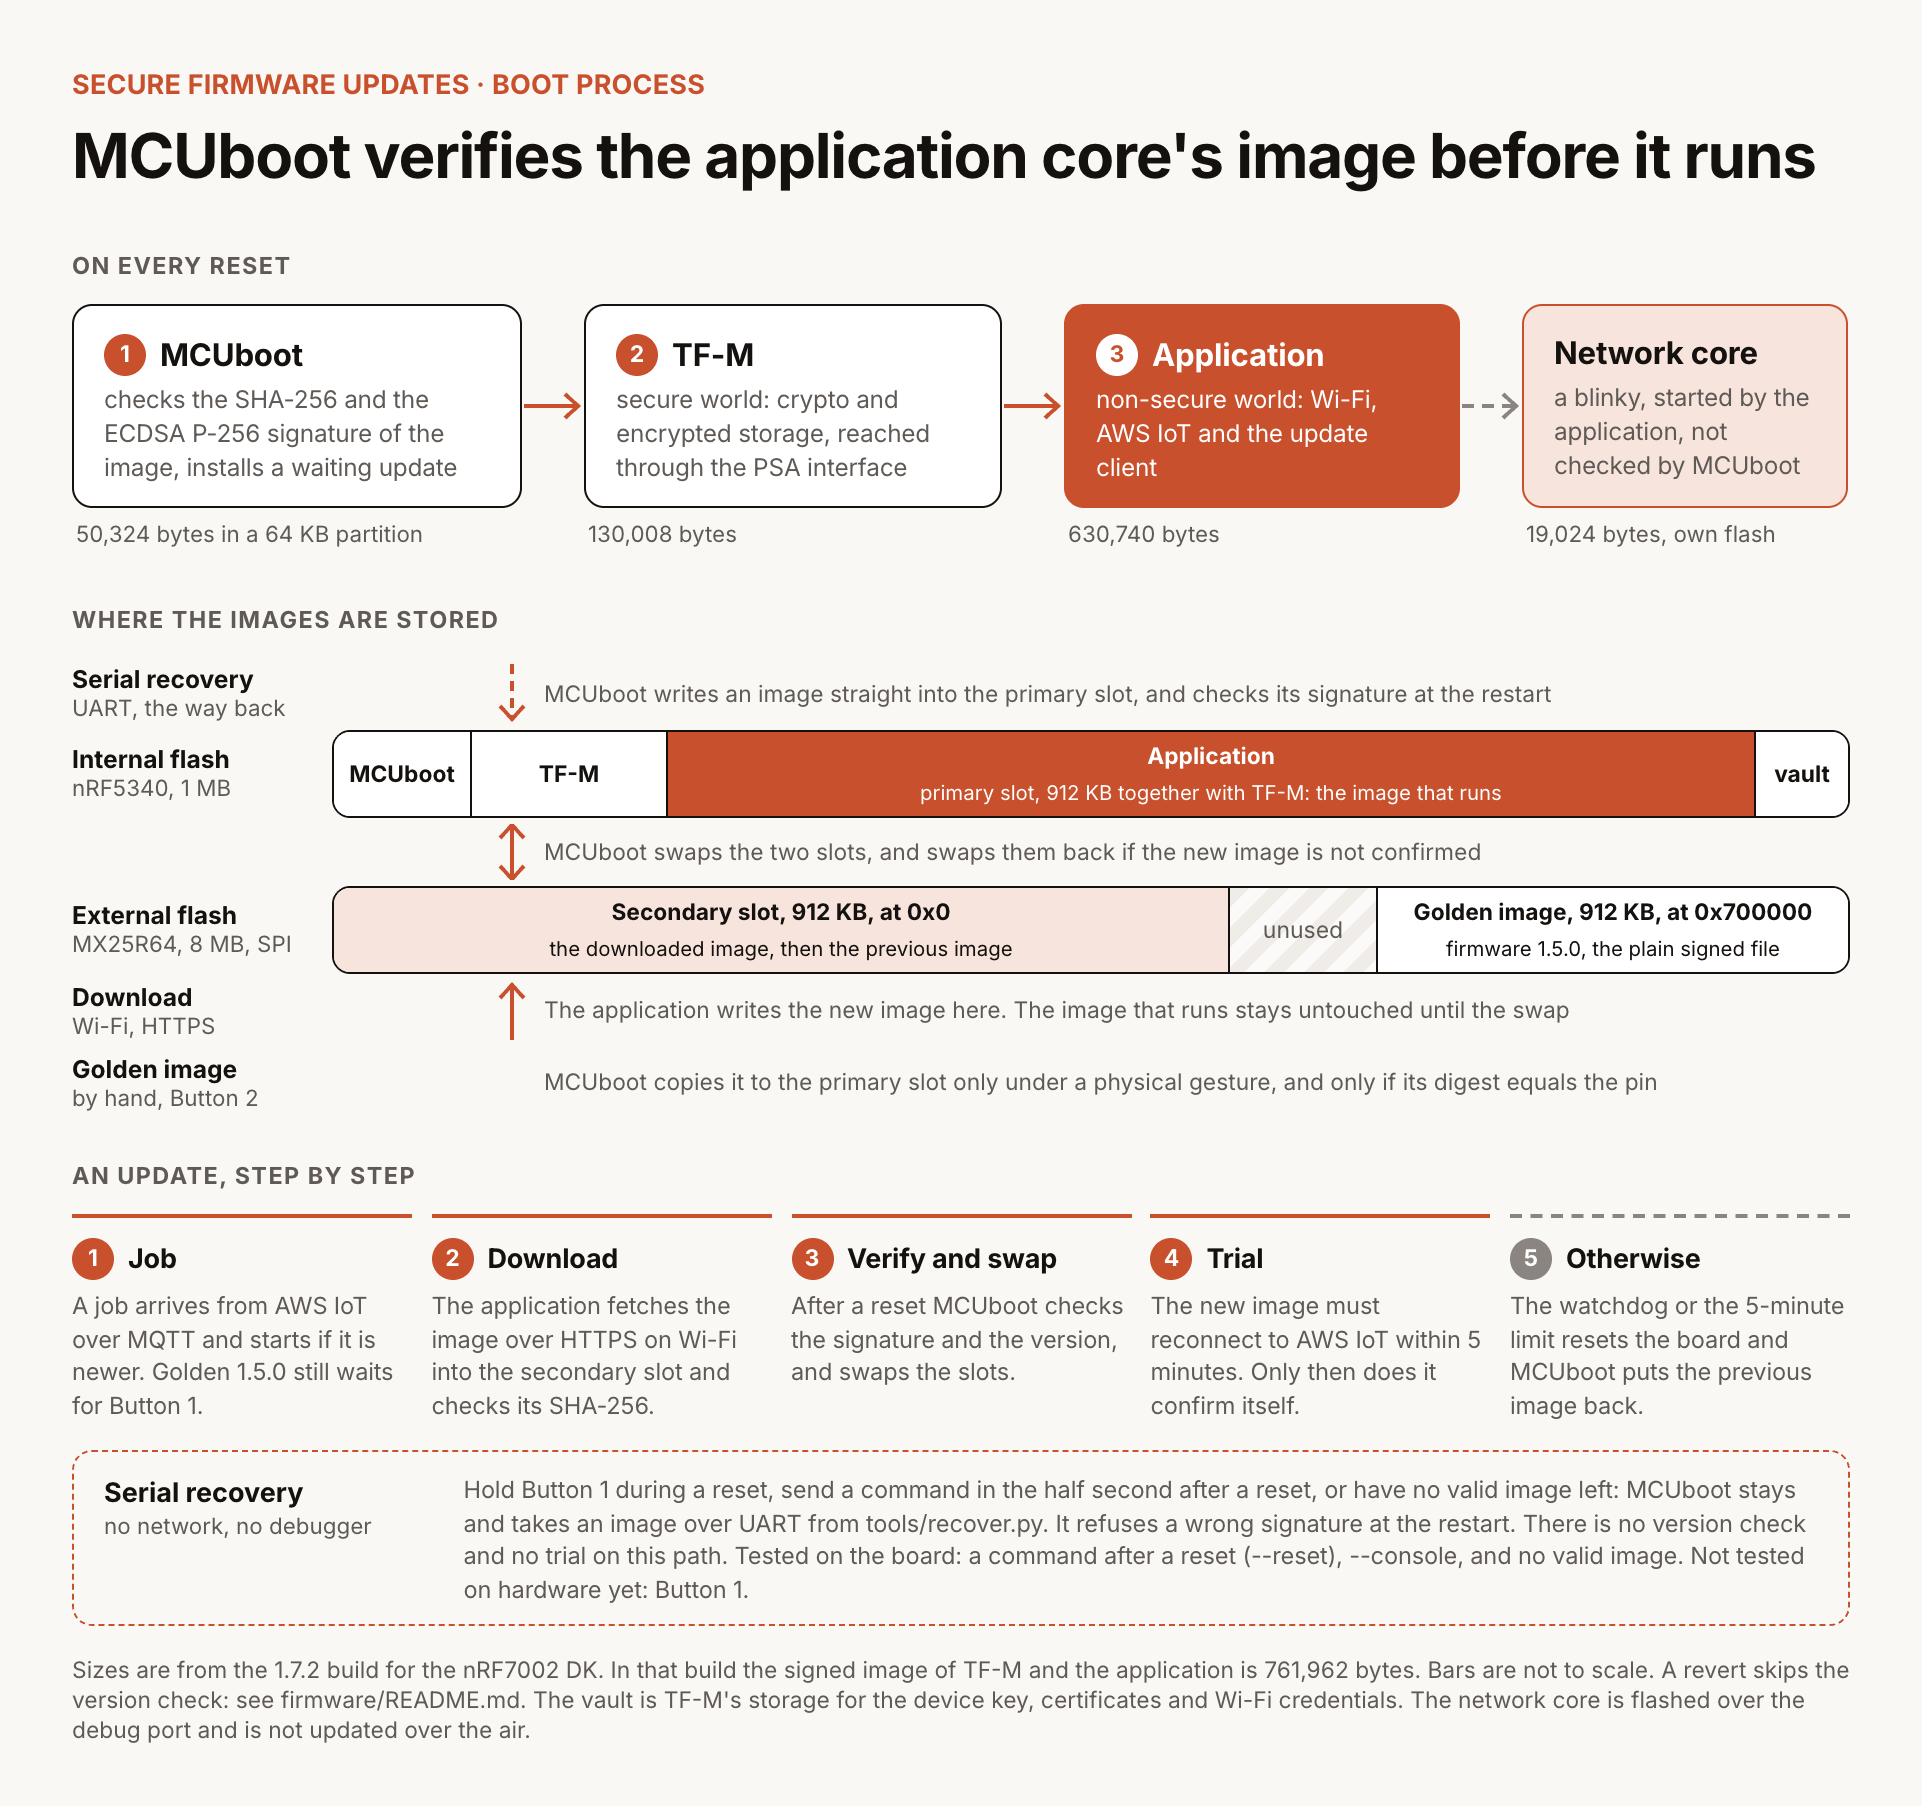
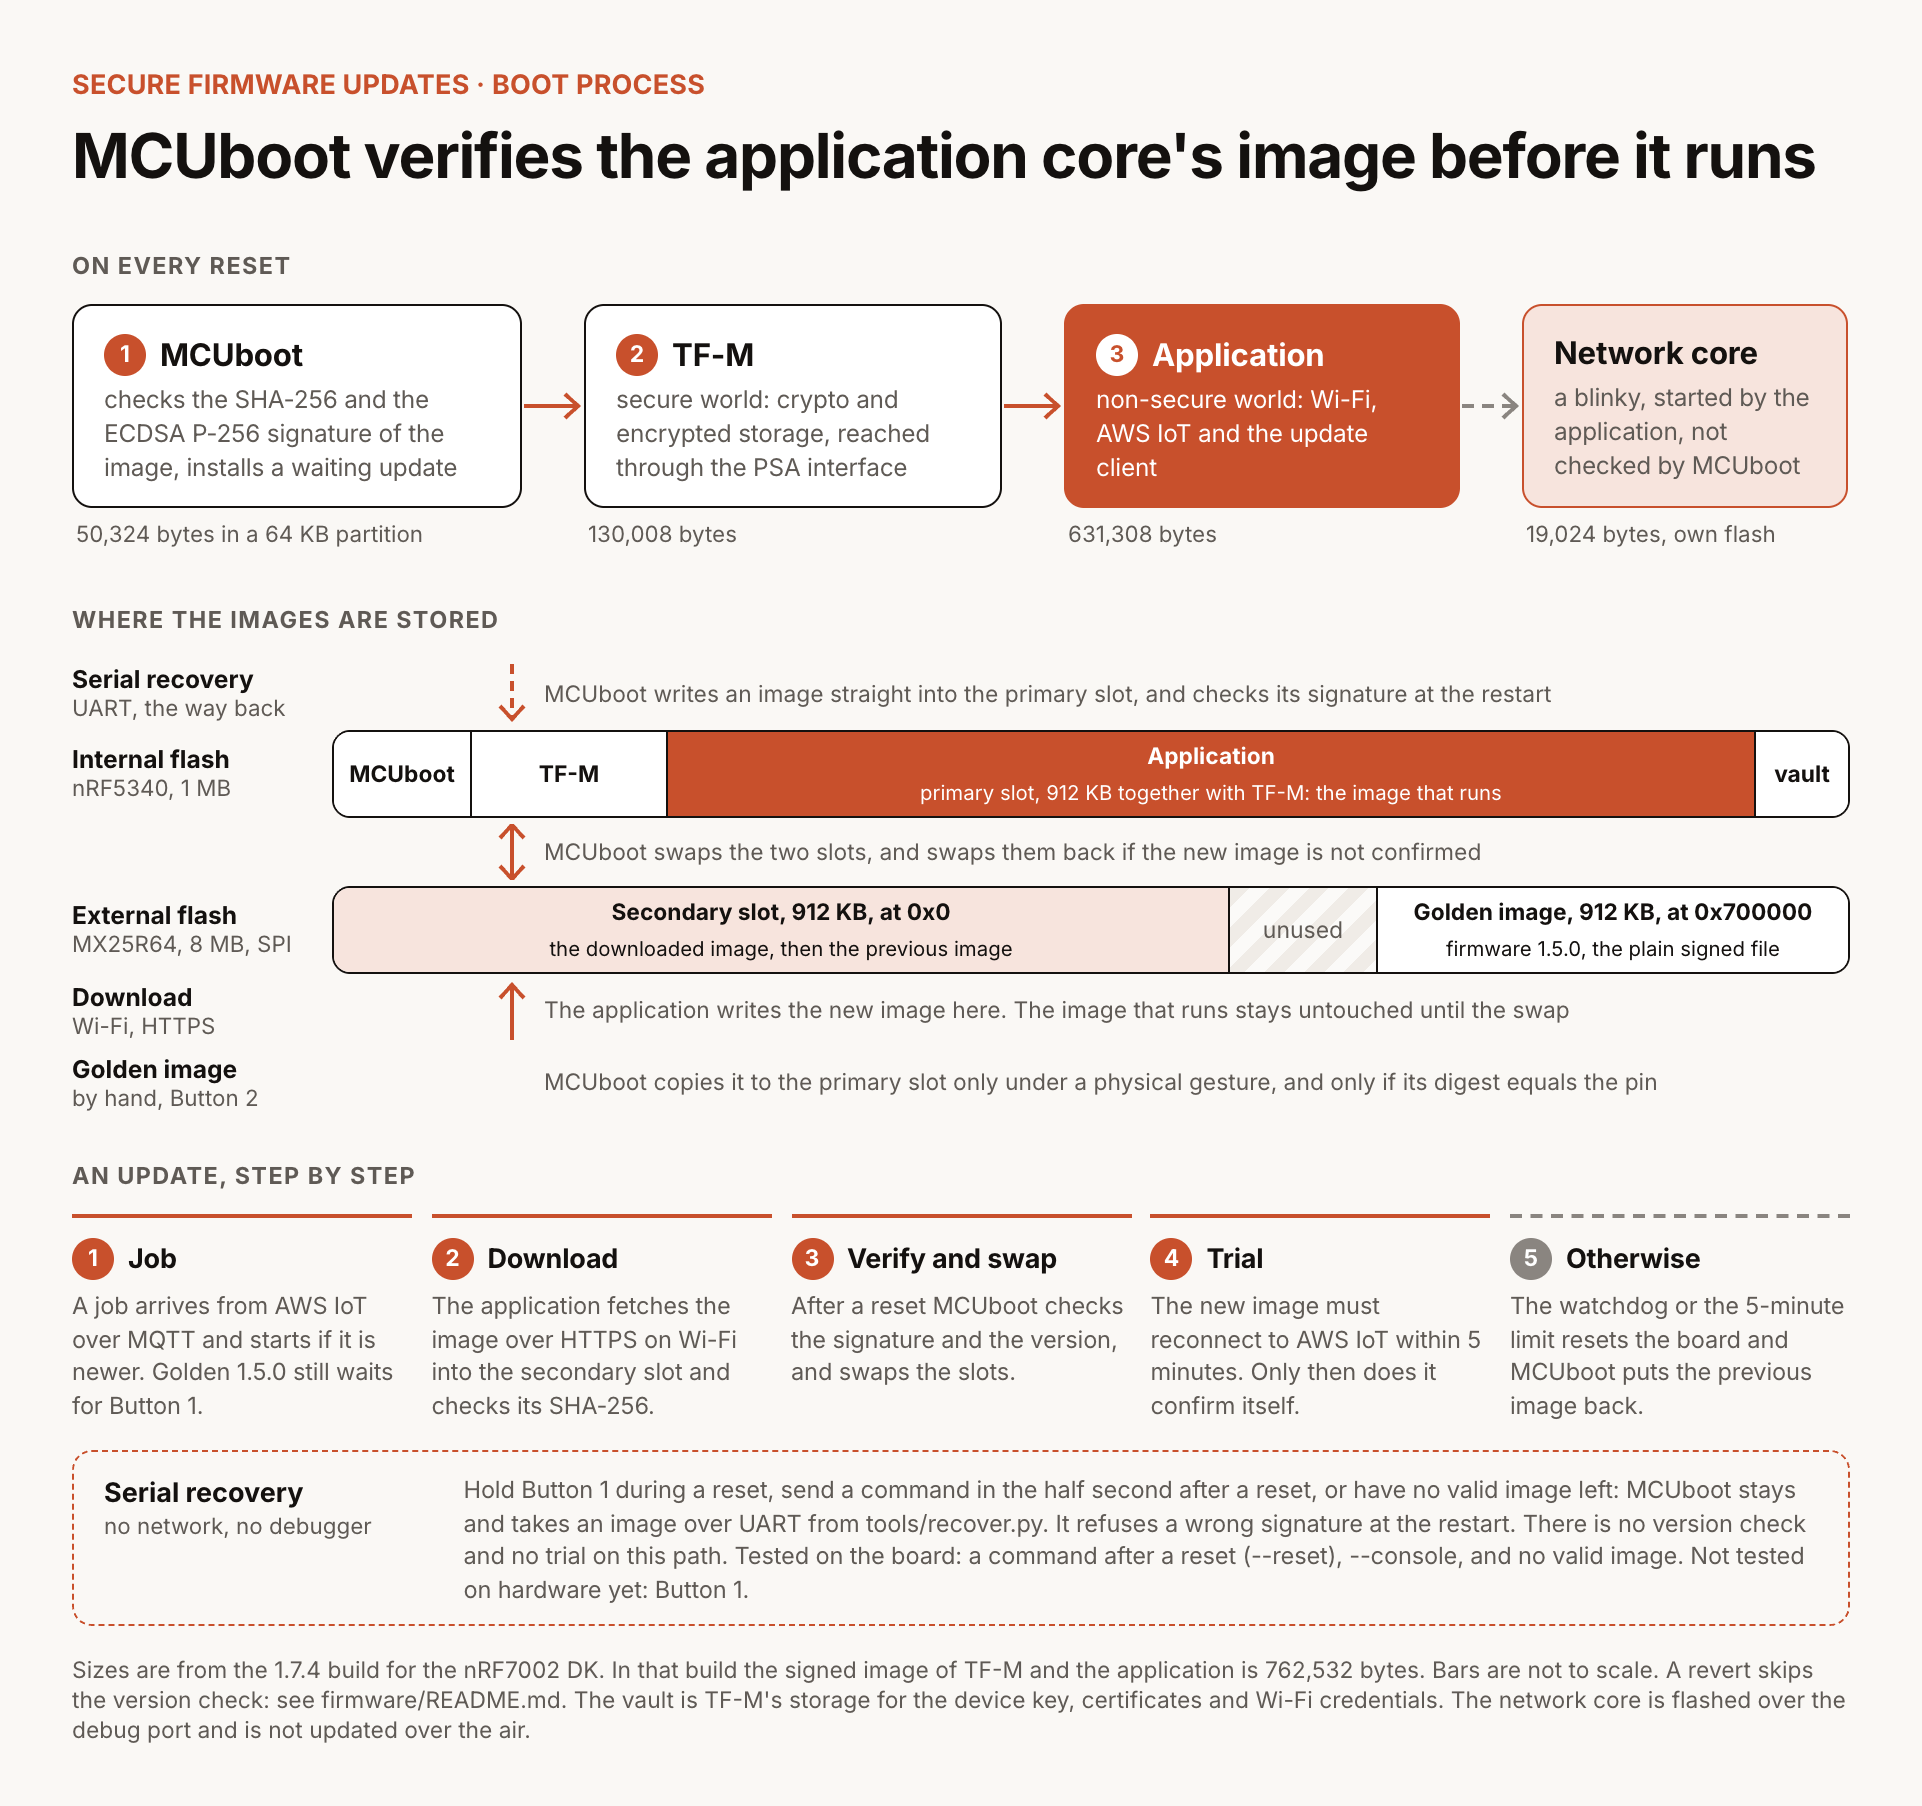
Give the sizes of 1.7.4 and record the updates to it

Changed region(s): [[0.0312, 0.8992, 0.9677, 0.9612], [0.5619, 0.2791, 0.6243, 0.3101]]

diff --git a/docs/test-results.md b/docs/test-results.md
@@ -6,7 +6,7 @@ came from are in the table below.
 **Which firmware.** The golden image, the one a person can always go back to, is firmware 1.5.0. It is
 frozen: [`firmware/golden.json`](../firmware/golden.json) names it, and the bootloader holds its digest.
 The first release with [what restarts a stuck board](../firmware/README.md#when-the-board-is-stuck) is
-1.7.0. The latest is 1.7.2, on the board since 2026-11-01, which starts an update with no button. Test images
+1.7.0. From 1.7.2 an update starts with no button. The latest is 1.7.4, on the board since 2026-11-01. Test images
 for the bench are numbered around them.
 
 Every run below was on one nRF7002 DK. The benches write one line per run to a local
@@ -39,6 +39,9 @@ All on 2026-11-01, on the bootloader that holds the pin:
 | 16:01 | 1.7.1 to 1.7.2 | The website, signed in | **No** | `FAILED`, `not_installed`; the board went back to 1.7.1 by itself |
 | 16:07 | 1.7.1 to 1.7.2, the same file | The website, signed in | **No** | `FAILED`, `not_installed`; the same again |
 | 16:15 | 1.7.1 to 1.7.2, the same file | The bench, with a job made directly | Yes | `SUCCEEDED`, 188 s after the button |
+| 16:28 | 1.7.2 to 1.7.3 | The website, signed in, with no button | Yes | `SUCCEEDED`, 210 s, with a Wi-Fi drop on the way, cause not known |
+| 16:41 | 1.7.3 to 1.7.3+1 | The bench, with no button | Yes | `SUCCEEDED`, 185 s |
+| 16:53 | 1.7.3+1 to 1.7.4 | The website, signed in, with no button | Yes | `SUCCEEDED`, 172 s |
 
 **The two failures are not explained.** There was no console on them, so what follows is from timing. Each took
 165 to 183 s from the restart to 1.7.1 running again, which fits a swap of 81 s, a reset within seconds, and a swap

diff --git a/README.md b/README.md
@@ -99,8 +99,8 @@ To update, a release manager deploys a signed image from our console, which crea
 
 | Question | Answer |
 | --- | --- |
-| How large is your bootloader? | MCUboot is 50,324 bytes of flash in a 64 KB partition, and uses 22,408 bytes of RAM (1.7.2 build). |
-| How large is your existing application code? | The application is 630,740 bytes of flash and uses 351 KB of its 400 KB of RAM. TF-M is 130,008 bytes of flash and uses 36,620 bytes of RAM. Signed together, they're 761,962 bytes in a 933,888-byte slot. The network core's blinky is another 19,024 bytes (1.7.2 build). |
+| How large is your bootloader? | MCUboot is 50,324 bytes of flash in a 64 KB partition, and uses 22,408 bytes of RAM (1.7.4 build). |
+| How large is your existing application code? | The application is 631,308 bytes of flash and uses 360,112 of 409,600 bytes of RAM. TF-M is 130,008 bytes of flash and uses 36,620 bytes of RAM. Signed together, they're 762,532 bytes in a 933,888-byte slot. The network core's blinky is another 19,024 bytes (1.7.4 build). |
 | Does the bootloader or application code handle the firmware image download? | The application. MCUboot has no network stack. |
 | What wireless communication is used to download the images? | Wi-Fi (nRF7002). The job arrives over MQTT with mutual TLS, and the image comes over HTTPS from a signed S3 link. |
 | Why this method? | A signed image is about 760 KB. Wi-Fi reaches the server directly and downloads it in about a minute. Bluetooth would need a phone as a relay, and we're saving it for audio. |
